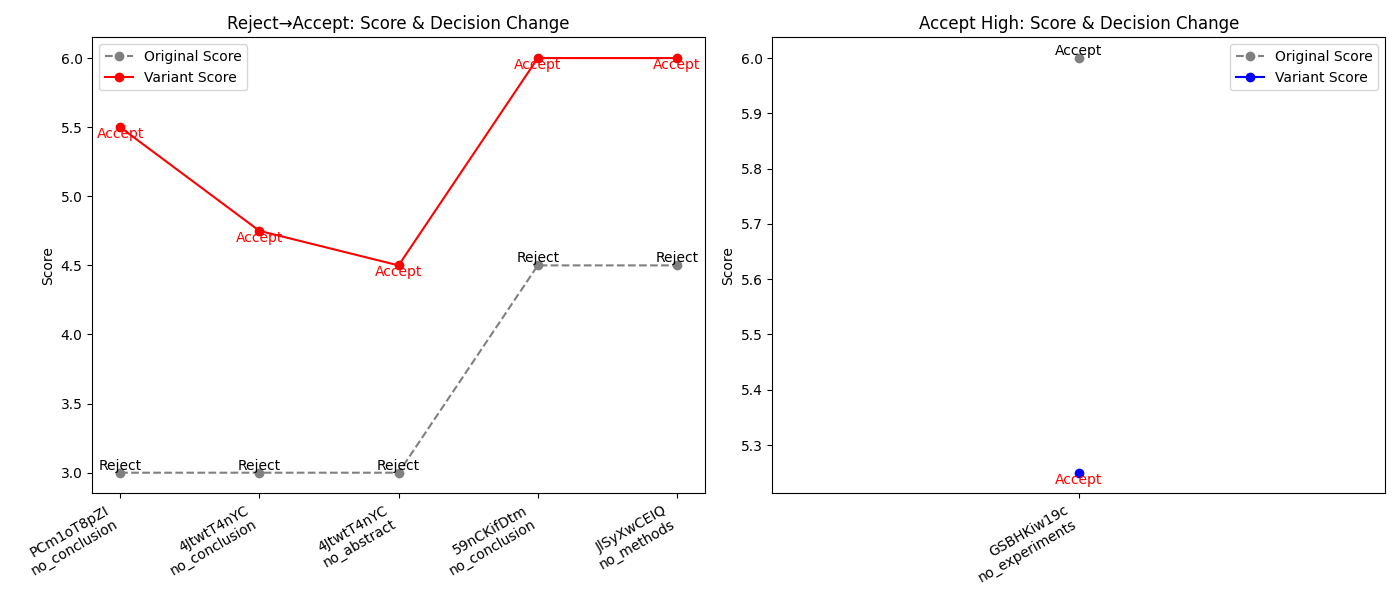
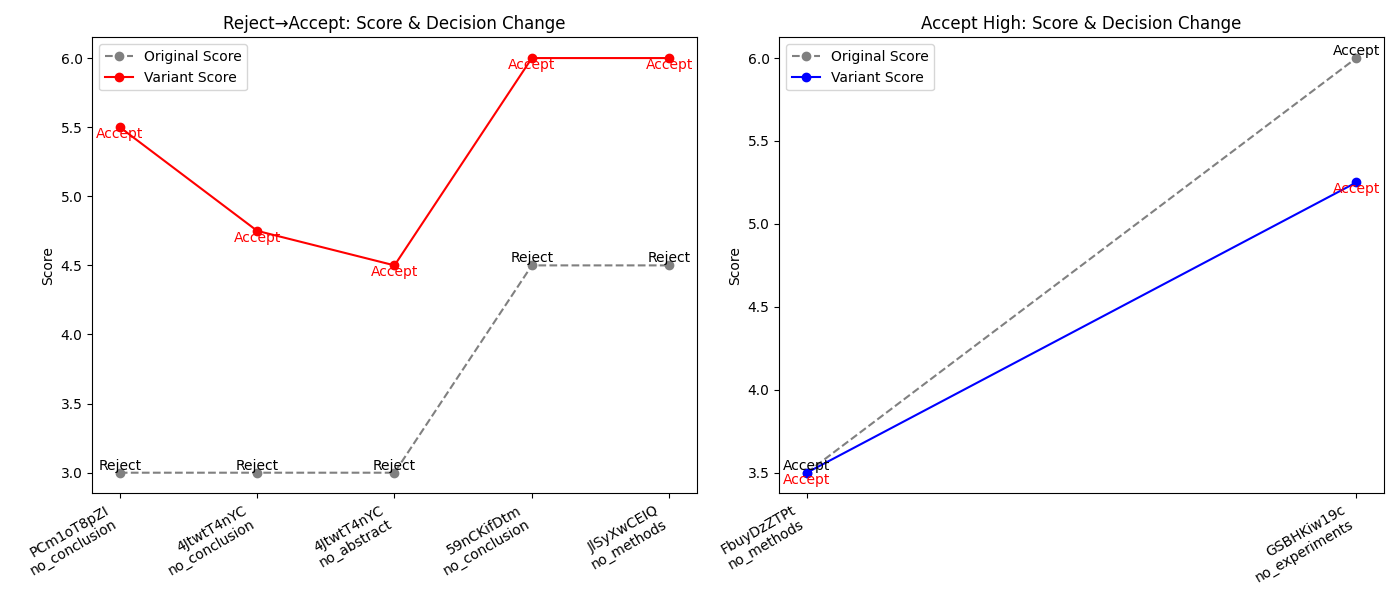
improve typical case selection and combined line plot: select 2 AC→AC and 2 RE→AC cases with variant preference; highlight Accept in no_methods/no_experiments; update output CSV and add review snapshot for new case

diff --git a/scripts/anomaly_ratio_stacked_bar.py b/scripts/anomaly_ratio_stacked_bar.py
@@ -521,16 +521,15 @@ for base_id, group in df_dec.groupby('base_paper_id'):
 reject_accept_cases_sorted = sorted(reject_accept_cases, key=lambda x: x['variant_score']-x['orig_score'], reverse=True)[:5]
 pd.DataFrame(reject_accept_cases_sorted).to_csv(f'{outdir}/typical_reject_accept_cases.csv', index=False)
 
-# 2. Accept高分论文删除methods/experiments后仍为Accept且分数高的异常案例
+# 2. Accept论文删除methods/experiments后仍为Accept的异常案例
 accept_high_cases = []
-high_score_threshold = 4.5  # 可调整
 for base_id, group in df_dec.groupby('base_paper_id'):
     orig = group[group['variant_type']=='original']
     if orig.empty:
         continue
     orig_score = orig.iloc[0]['rating']
     orig_dec = orig.iloc[0]['decision']
-    if orig_dec != 'Accept' or orig_score < high_score_threshold:
+    if orig_dec != 'Accept':
         continue
     for vt in ['no_methods','no_experiments']:
         variant = group[group['variant_type']==vt]
@@ -538,7 +537,7 @@ for base_id, group in df_dec.groupby('base_paper_id'):
             continue
         v_score = variant.iloc[0]['rating']
         v_dec = variant.iloc[0]['decision']
-        if v_dec == 'Accept' and v_score >= high_score_threshold:
+        if v_dec == 'Accept':
             accept_high_cases.append({
                 'base_paper_id': base_id,
                 'orig_score': orig_score,
@@ -601,13 +600,42 @@ plt.close()
 print(f"Saved typical cases line chart to {outdir}/typical_cases_line.png")
 
 # ========== 典型案例变体全折线图 ==========
-# 挑选Reject→Accept且分数升高最多的前2个base_paper_id，并补充固定关注案例
-num_typical = 2
-forced_typical_ids = ['JlSyXwCEIQ', 'GSBHKiw19c']
-typical_ids = [c['base_paper_id'] for c in reject_accept_cases_sorted[:num_typical]] if reject_accept_cases_sorted else []
-for forced_id in forced_typical_ids:
-    if forced_id not in typical_ids:
-        typical_ids.append(forced_id)
+# 目标：合并图固定为 2 个 AC→AC + 2 个 RE→AC（第1个子图优先 AC→AC 且 no_methods）
+def _pick_unique_case_entries(cases, top_n=2, prefer_variants=None):
+    prefer_variants = prefer_variants or []
+    ranked = sorted(
+        cases,
+        key=lambda x: (
+            0 if x.get('variant_type') in prefer_variants else 1,
+            -(x.get('variant_score', np.nan) - x.get('orig_score', np.nan)),
+        ),
+    )
+    selected = []
+    used_ids = set()
+    for item in ranked:
+        pid = item.get('base_paper_id')
+        if pid in used_ids:
+            continue
+        selected.append(item)
+        used_ids.add(pid)
+        if len(selected) >= top_n:
+            break
+    return selected
+
+selected_ac2ac = _pick_unique_case_entries(
+    accept_high_cases,
+    top_n=2,
+    prefer_variants=['no_methods', 'no_experiments'],
+)
+selected_re2ac = _pick_unique_case_entries(
+    reject_accept_cases,
+    top_n=2,
+    prefer_variants=['no_methods', 'no_experiments'],
+)
+typical_specs = (
+    [{'base_paper_id': c['base_paper_id'], 'case_tag': 'AC→AC', 'focus_variant': c.get('variant_type', '')} for c in selected_ac2ac] +
+    [{'base_paper_id': c['base_paper_id'], 'case_tag': 'RE→AC', 'focus_variant': c.get('variant_type', '')} for c in selected_re2ac]
+)
 
 def _clean_base_title(raw_title):
     if not isinstance(raw_title, str):
@@ -615,9 +643,10 @@ def _clean_base_title(raw_title):
     # 去掉标题末尾的变体后缀，例如 "[no_methods]"
     return re.sub(r'\s*\[[^\]]+\]\s*$', '', raw_title).strip()
 
-if typical_ids:
+if typical_specs:
     combined_cases = []
-    for paper_id in typical_ids:
+    for spec in typical_specs:
+        paper_id = spec['base_paper_id']
         variants = df_dec[df_dec['base_paper_id'] == paper_id].copy()
         if variants.empty:
             print(f"Warning: no data for forced/typical paper_id={paper_id}")
@@ -642,6 +671,8 @@ if typical_ids:
         title_snapshot = textwrap.fill(base_title, width=78) if base_title else '(title unavailable)'
         combined_cases.append({
             'paper_id': paper_id,
+            'case_tag': spec['case_tag'],
+            'focus_variant': spec['focus_variant'],
             'variant_types': variant_types,
             'scores': scores,
             'decisions': decisions,
@@ -670,27 +701,62 @@ if typical_ids:
         review_snapshot.to_csv(f'{outdir}/typical_case_reviews_{paper_id}.csv', index=False)
         print(f"Saved typical case review snapshot for {paper_id} to {outdir}/typical_case_reviews_{paper_id}.csv")
 
-    # 合并图：最多展示4个典型论文，方便横向对比
+    # 合并图：展示 2 个 AC→AC + 2 个 RE→AC，便于横向对比
     combined_cases = combined_cases[:4]
     if combined_cases:
-        fig, axes = plt.subplots(2, 2, figsize=(22, 12))
+        fig, axes = plt.subplots(2, 2, figsize=(24, 14))
         axes = axes.flatten()
         for i, case in enumerate(combined_cases):
             ax = axes[i]
             x = np.arange(len(case['variant_types']))
-            ax.plot(x, case['scores'], marker='o', color='blue', linewidth=2)
-            for j, (s, d) in enumerate(zip(case['scores'], case['decisions'])):
-                ax.text(j, s, d, color='red' if d == 'Accept' else 'black', fontsize=8, ha='center', va='bottom')
+            ax.plot(x, case['scores'], marker='o', color='blue', linewidth=2.5, markersize=7)
+            for j, (vt, s, d) in enumerate(zip(case['variant_types'], case['scores'], case['decisions'])):
+                ax.text(
+                    j,
+                    s,
+                    d,
+                    color='red' if d == 'Accept' else 'black',
+                    fontsize=14,
+                    fontweight='bold',
+                    ha='center',
+                    va='bottom'
+                )
+                # 强调异常点：no_methods / no_experiments 下仍为 Accept
+                if d == 'Accept' and vt in ['no_methods', 'no_experiments']:
+                    ax.scatter(
+                        j, s,
+                        s=240,
+                        facecolors='none',
+                        edgecolors='#fb8c00',
+                        linewidths=2.0,
+                        zorder=6
+                    )
+                    ax.annotate(
+                        'anomaly',
+                        (j, s),
+                        textcoords='offset points',
+                        xytext=(0, -16),
+                        ha='center',
+                        va='top',
+                        color='#fb8c00',
+                        fontsize=10,
+                        fontweight='bold'
+                    )
             ax.set_xticks(x)
-            ax.set_xticklabels(case['variant_types'], rotation=30, ha='right', fontsize=8)
+            ax.set_xticklabels(case['variant_types'], rotation=30, ha='right', fontsize=11)
             short_title = textwrap.shorten(case['title_snapshot'].replace('\n', ' '), width=95, placeholder='...')
-            ax.set_title(f"{case['paper_id']}\n{short_title}", fontsize=10)
-            ax.set_ylabel('Score')
-            ax.set_xlabel('Variant Type')
+            ax.set_title(f"{case['case_tag']} | {case['paper_id']}\n{short_title}", fontsize=13)
+            ax.set_ylabel('Score', fontsize=12)
+            ax.set_xlabel('Variant Type', fontsize=12)
+            ax.tick_params(axis='y', labelsize=11)
+            ax.grid(axis='y', alpha=0.2)
             ax.set_ylim(0, max(7, np.nanmax(case['scores']) + 0.5))
         for j in range(len(combined_cases), 4):
             axes[j].axis('off')
-        fig.suptitle('Typical Cases: All Variants Score & Decision (Combined View)', fontsize=14)
+        fig.suptitle(
+            'Typical Cases: 2 AC→AC + 2 RE→AC (Accept in no_methods/no_experiments highlighted)',
+            fontsize=18
+        )
         plt.tight_layout(rect=(0, 0, 1, 0.96))
         plt.savefig(f'{outdir}/typical_case_variants_line_combined_4papers.png')
         plt.close()
